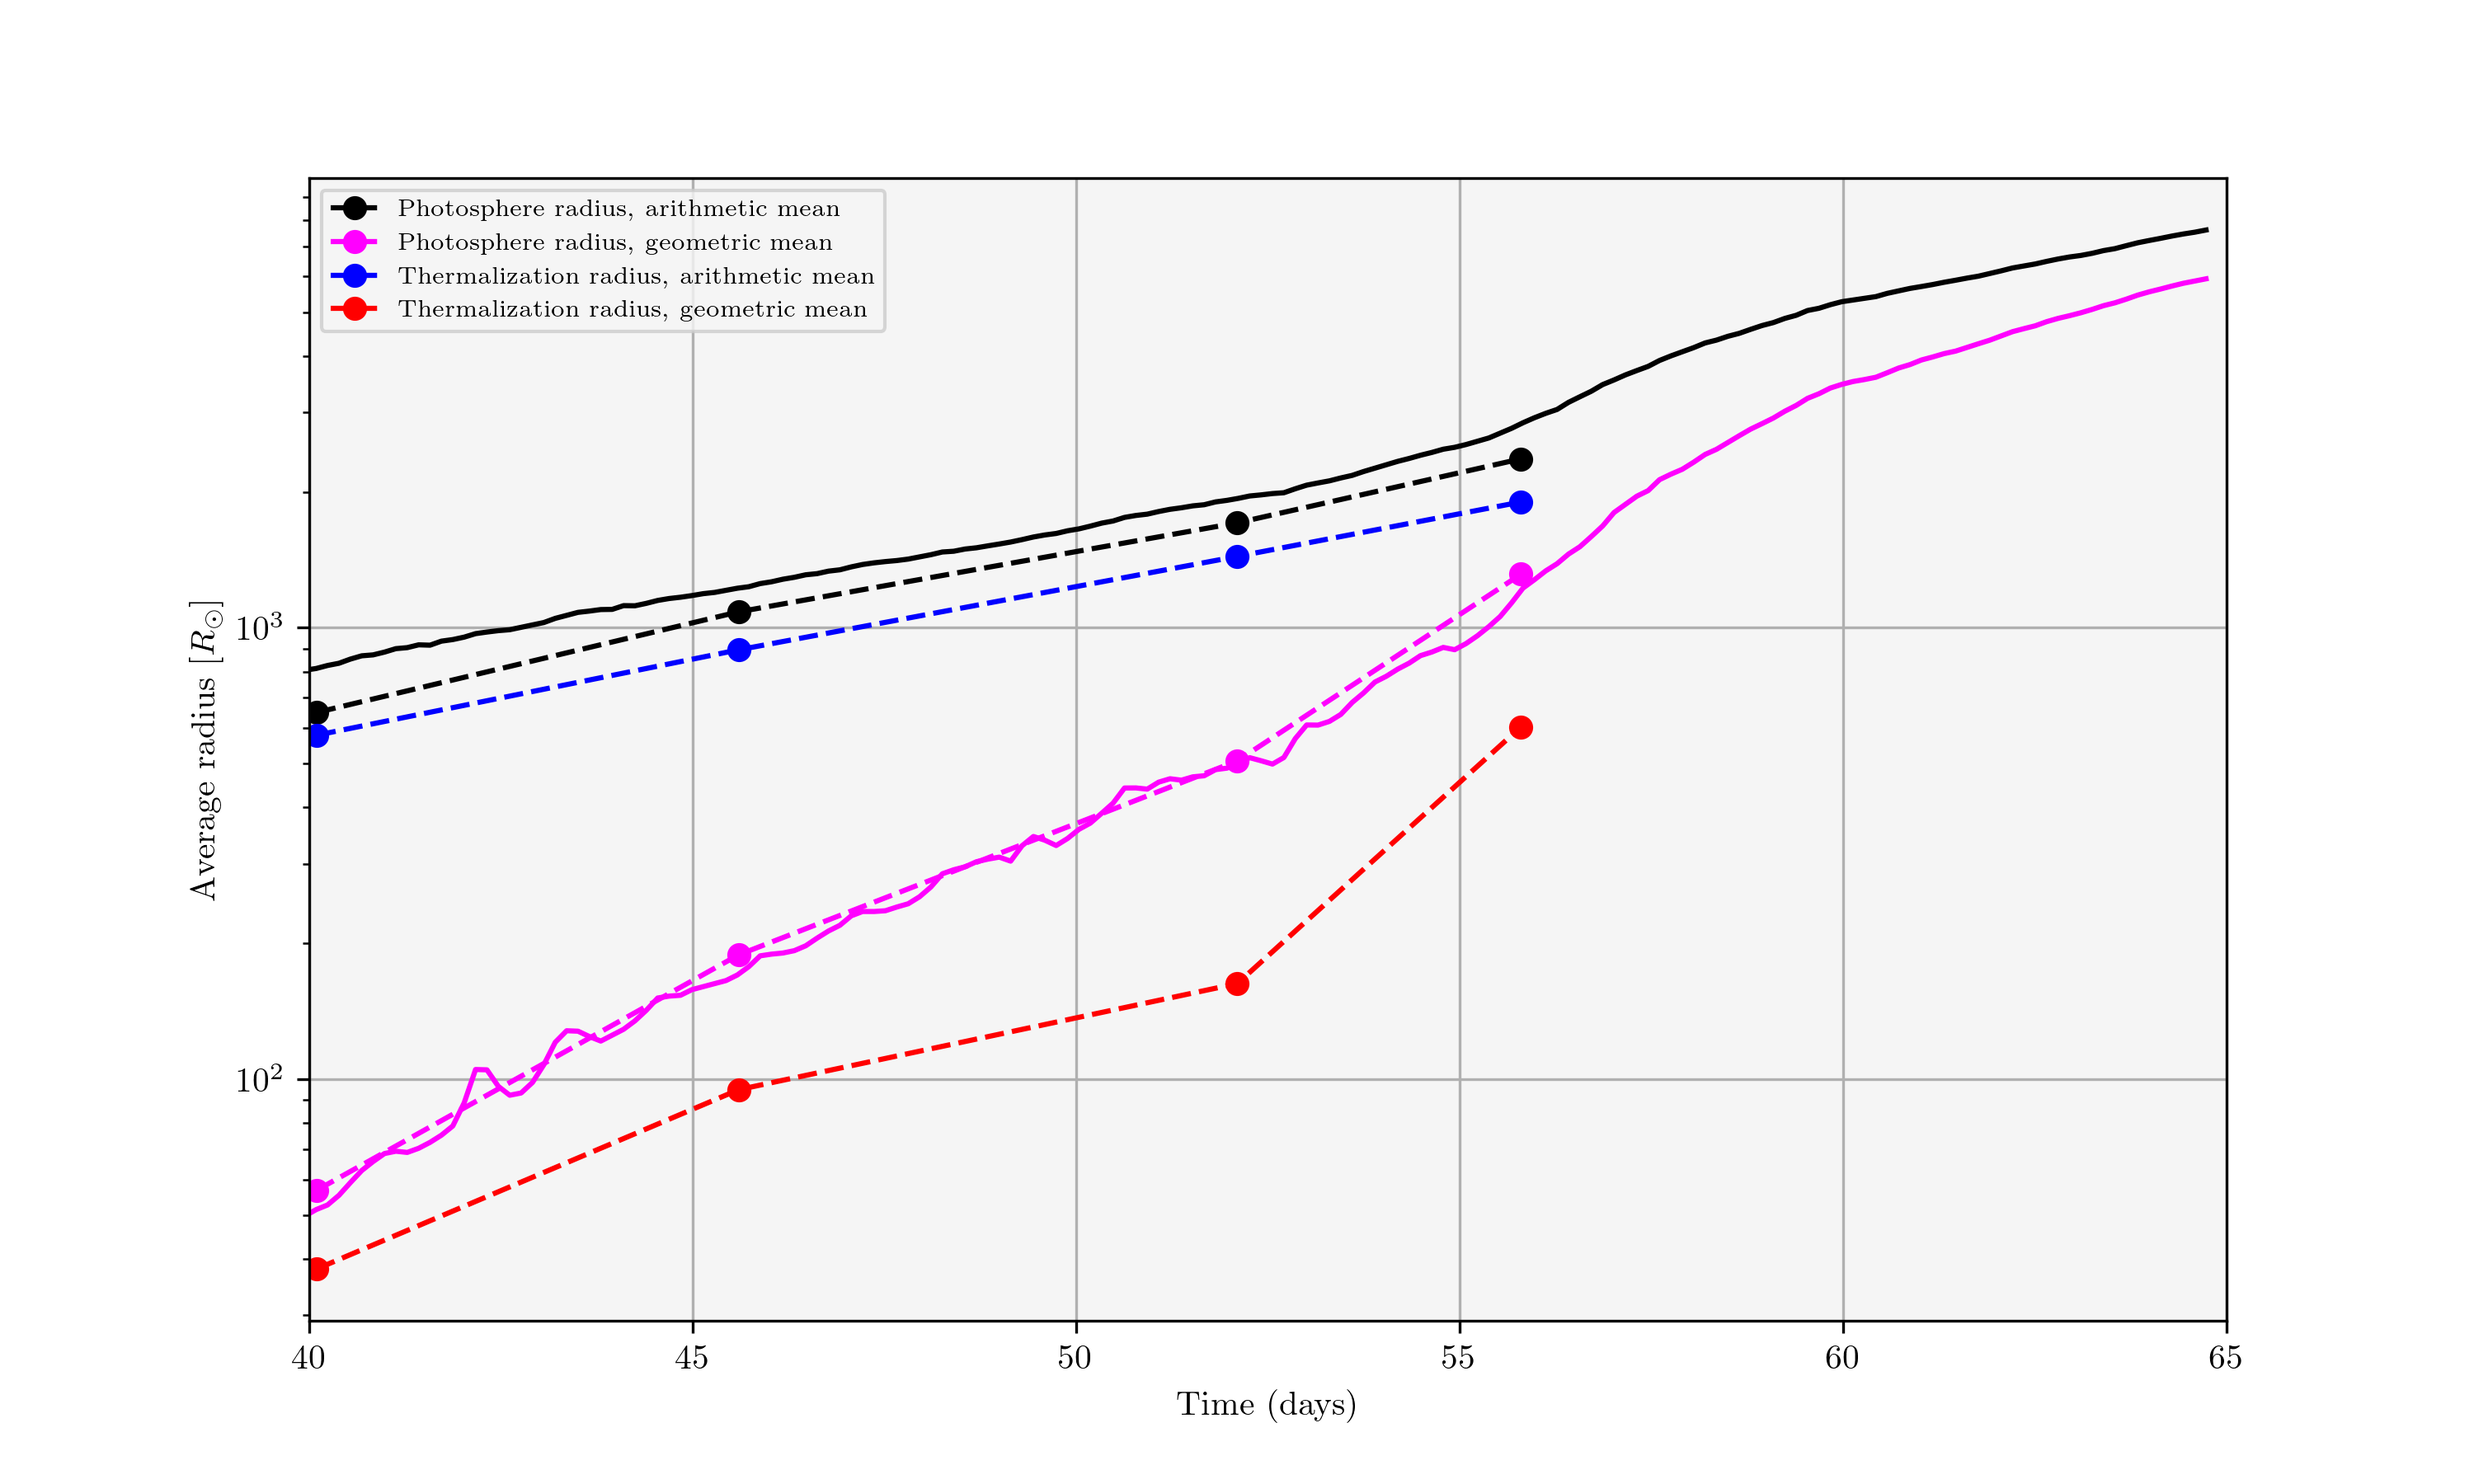
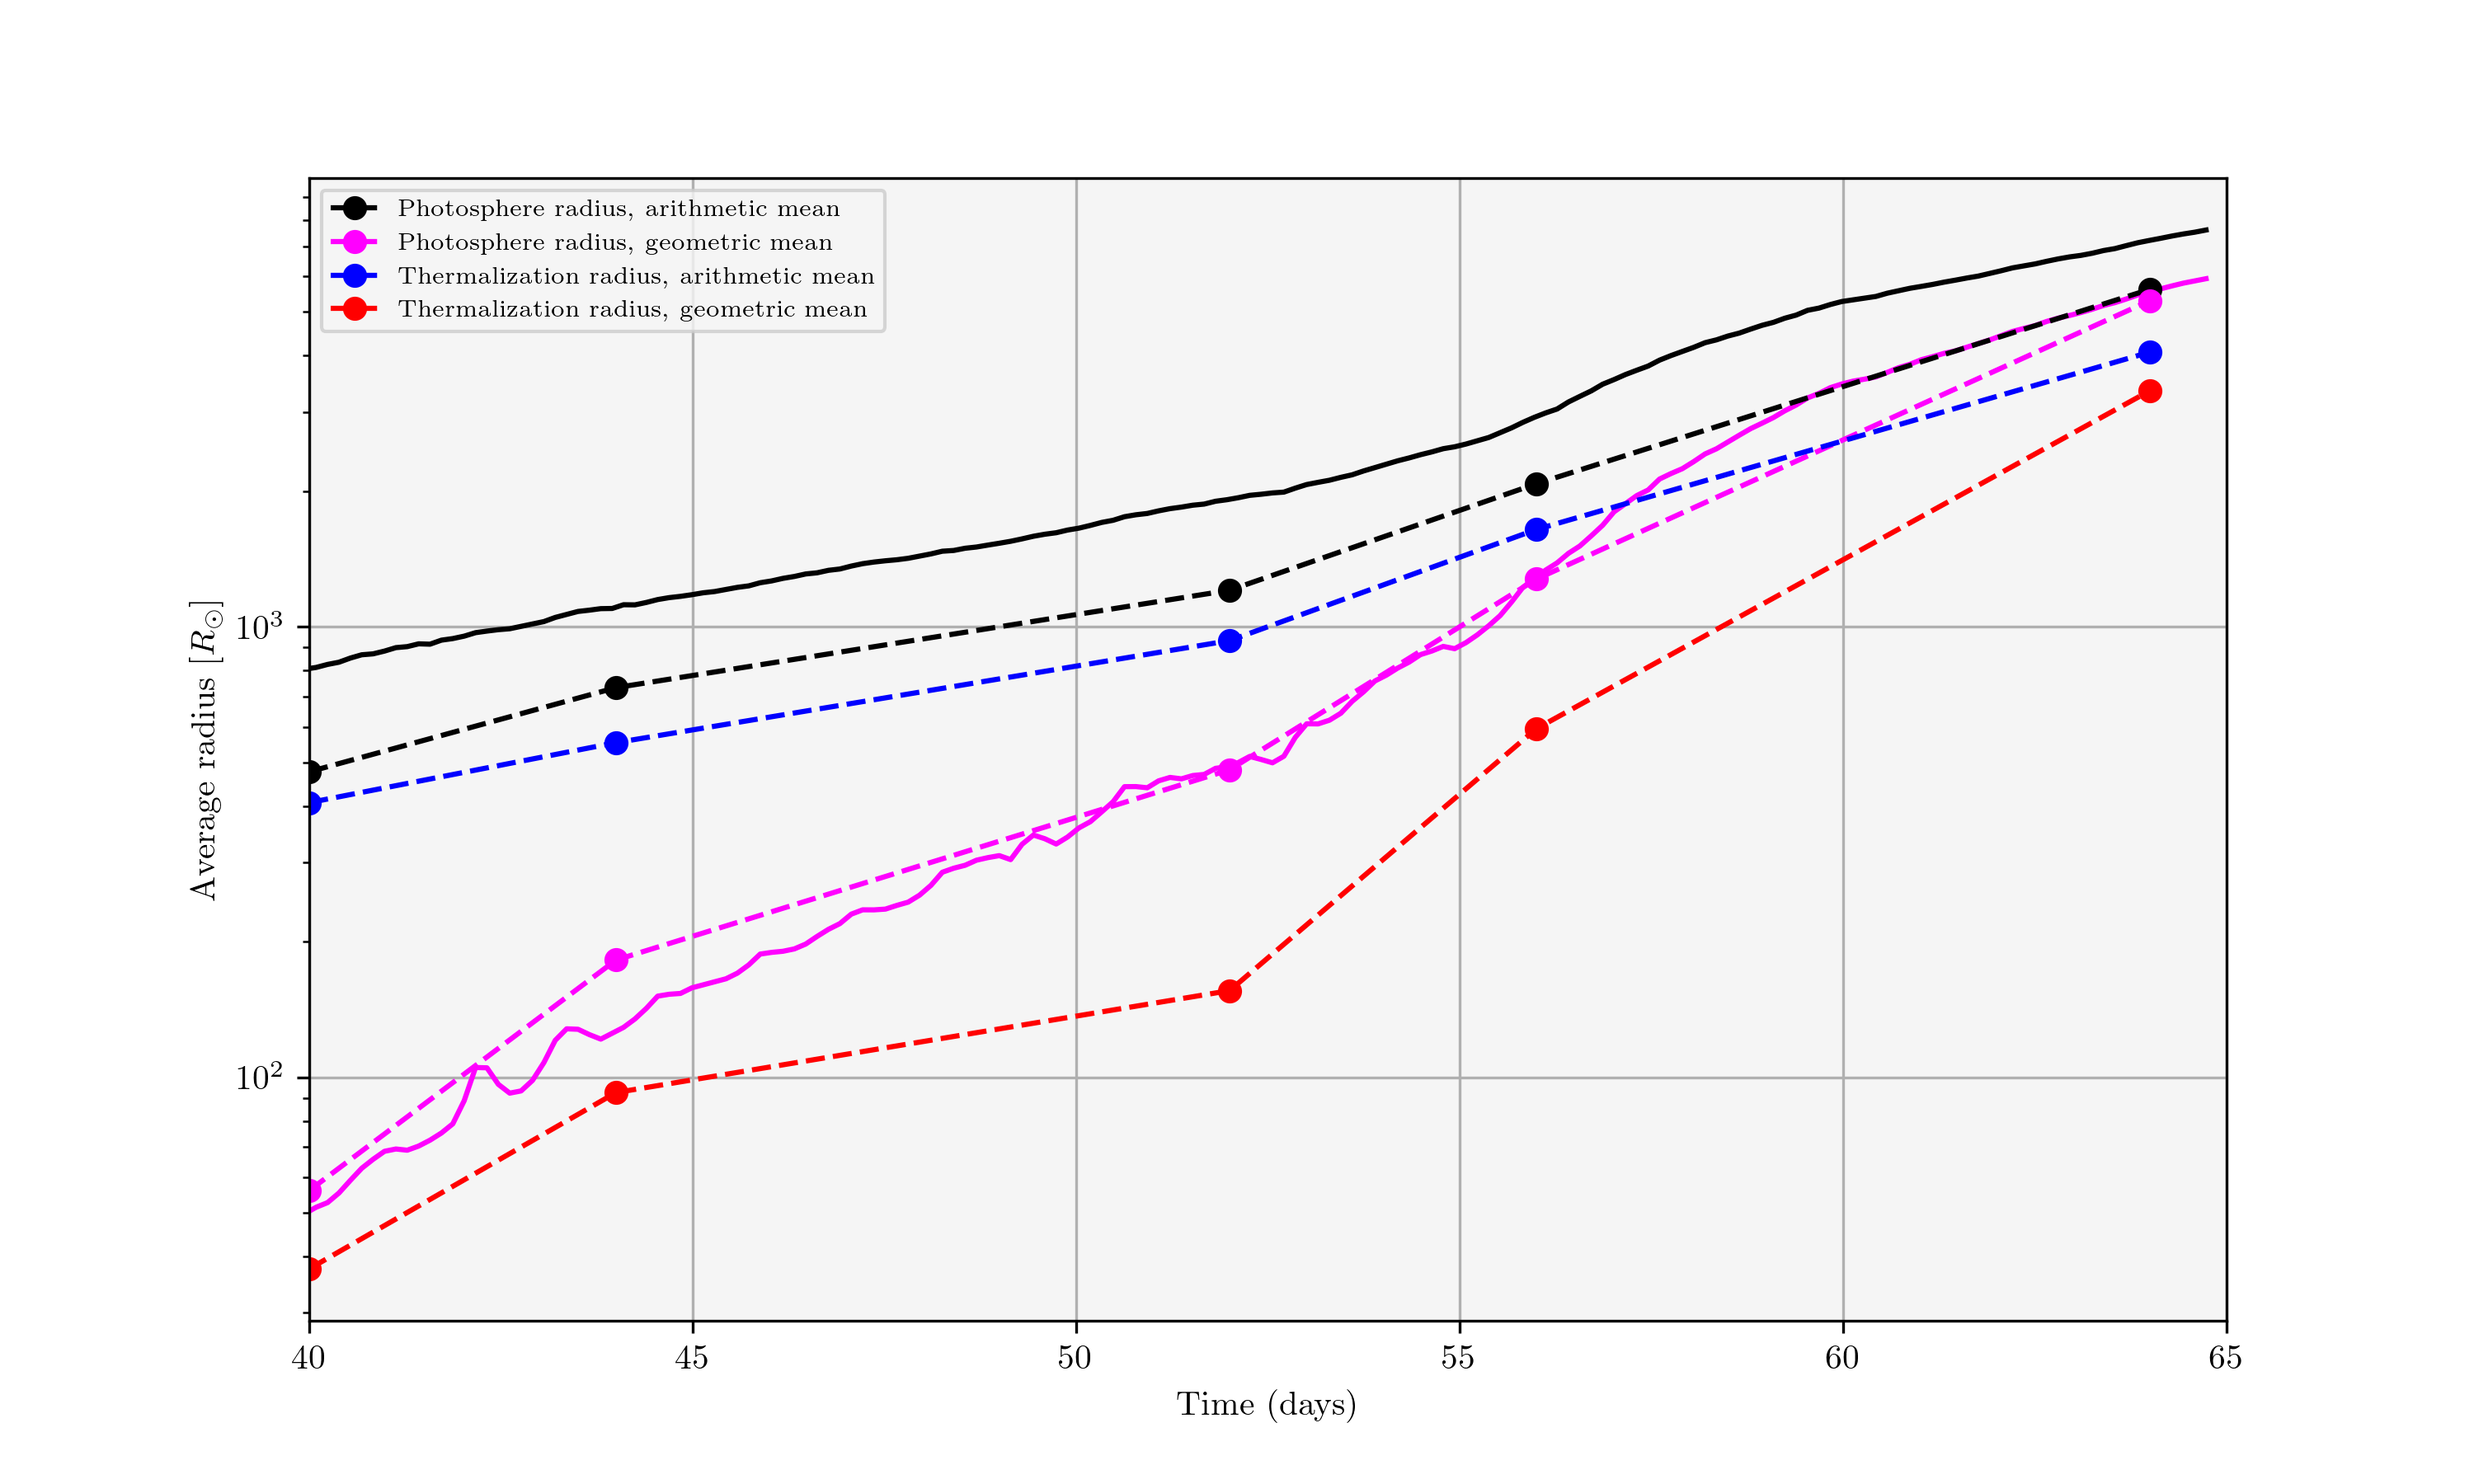
remove old stuff

diff --git a/src/Luminosity/blackbody_tree.py b/src/Luminosity/blackbody_tree.py
@@ -97,7 +97,7 @@ def select_rays(wanted_theta, wanted_phi, rays_T, rays_den, rays_cumulative_taus
 
 # MAIN
 if __name__ == "__main__":
-    plot = False
+    plot = True
     save = True
     select = False
     
@@ -196,7 +196,7 @@ if __name__ == "__main__":
                     lum_n[i] += lum_n_cell
                     
         # Normalise with the bolometric luminosity from red curve (FLD)
-        const_norm = normalisation(lum_n, x_arr, luminosity_fld_fix[idx])
+        const_norm = normalisation(lum_n, x_arr, luminosity_fld_fix)#[idx])
         # if select:
         #     # NOT SURE
         #     const_norm = const_norm * len(rays_T) / 192
@@ -243,6 +243,6 @@ if __name__ == "__main__":
             ax2.invert_xaxis()
             ax2.loglog()
             ax2.set_xlabel(r'Wavelength [\AA]')
-            # plt.savefig('Figs/n_Ltildan_m' + str(m) + '_snap' + str(fix))
+            plt.savefig(f'Figs/n_Ltildan_m{m}_snap{snap}')
             plt.show()
                         

diff --git a/src/Luminosity/select_path.py b/src/Luminosity/select_path.py
@@ -31,7 +31,7 @@ def select_snap(m, check):
         if m == 6 and check == 'fid':
             snapshots = np.arange(844, 1008 + 1, step = 1)
         if m == 4 and check == 'fid':
-            snapshots = np.arange(210, 322 + 1)
+            snapshots = np.arange(110, 322 + 1) #np.arange(110, 322 + 1)
         if m == 4 and check == 'S60ComptonHires':
             snapshots = np.arange(210, 278 + 1)
     else:
@@ -46,3 +46,8 @@ def select_snap(m, check):
         t_by_tfb = day / t_fall
         days.append(t_by_tfb)
     return snapshots, days
+
+if __name__ == "__main__":
+    m = 4
+    check = 'fid'
+    snapshots, days =  select_prefix(m, check)

diff --git a/src/Plotting/Projection/Tree-Density-Projection.py b/src/Plotting/Projection/Tree-Density-Projection.py
@@ -29,7 +29,7 @@ apocenter = 2 * Rt * Mbh**(1/3)  # There is m_* hereeee
 t_fall = 40 * (Mbh/1e6)**(0.5)  # days EMR+20 p13
 
 #snapshots, days = select_snap(m, check)
-snapshots = np.arange(210, 322 + 1)
+snapshots = np.arange(100, 322 + 1)
 days = np.loadtxt('data/red/alicered4fid_days.txt')
 
 for snap, day in zip(snapshots, days):

diff --git a/src/Luminosity/special_radii_tree.py b/src/Luminosity/special_radii_tree.py
@@ -21,6 +21,7 @@ from scipy.stats import gmean
 
 import matplotlib.pyplot as plt
 import matplotlib.colors as colors
+from datetime import datetime
 plt.rcParams['text.usetex'] = True
 plt.rcParams['figure.dpi'] = 300
 plt.rcParams['figure.figsize'] = [5 , 3]

diff --git a/src/Luminosity/red_tree.py b/src/Luminosity/red_tree.py
@@ -311,6 +311,7 @@ if __name__ == "__main__":
     lums = np.zeros(len(snapshots))
    
     for idx in range(0,len(snapshots)):
+        print(f'Snapshot {snapshots[idx]}')
         lum = doer_of_thing(snapshots[idx], m, check)
         lums[idx] = lum
     
